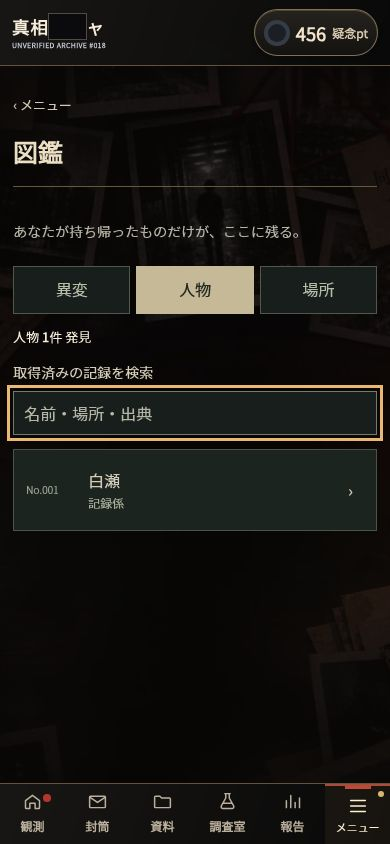
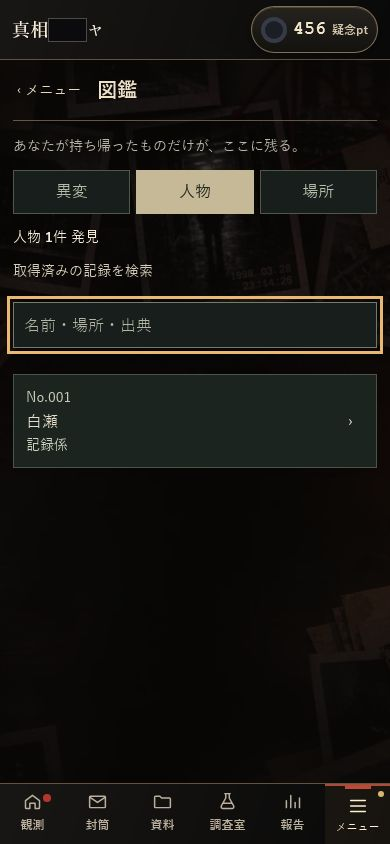
Make acquired catalog cards readable on phones (#248)

diff --git a/assets/account-catalog.css b/assets/account-catalog.css
@@ -8,10 +8,10 @@
 .menu-scene:has(.catalog){grid-template-columns:minmax(0,1fr)}
 .catalog-intro{font-size:14px;color:#b4b5a7;line-height:1.8}.catalog-tabs{display:grid;grid-template-columns:repeat(3,minmax(0,1fr));gap:6px;margin-top:22px}
 .catalog-tabs button{min-height:48px;background:#171e1b;border:1px solid #52574c;color:#b7bba9;font:inherit}.catalog-tabs button[aria-pressed=true]{background:#c6b998;color:#20271f;border-color:#c6b998}
-.catalog-summary{display:flex;justify-content:space-between;align-items:center;gap:10px;font-size:13px;margin:12px 0}.catalog-summary p{margin:0;white-space:nowrap}
+.catalog-summary{display:flex;flex-wrap:wrap;justify-content:space-between;align-items:center;gap:4px 10px;font-size:14px;line-height:1.5;margin:12px 0}.catalog-summary p{margin:0}
 .catalog-search{display:block;font-size:14px;color:#d3ccb8}.catalog-search-fields{display:flex;gap:8px;margin:7px 0 14px}.catalog-search-fields input{min-width:0;flex:1;min-height:44px;padding:9px 10px;border:1px solid #747b6d;background:#171e1b;color:#eee6d4;font:16px/1.5 var(--f-body)}.catalog-search-fields input::placeholder{color:#b4b5a7}.catalog-search-fields button{min-height:44px;min-width:64px;padding:8px;border:1px solid #747b6d;background:#1c241f;color:#d3ccb8;font:14px var(--f-body)}.catalog [hidden]{display:none}
-.catalog-list{display:grid;gap:8px}.catalog-entry{display:grid;grid-template-columns:52px minmax(0,1fr) 16px;gap:10px;align-items:center;width:100%;min-height:82px;padding:12px;text-align:left;border:1px solid #4c5349;background:#1c241f;color:#d3ccb8;font:inherit}.catalog-entry>small{font-size:10px;color:#949e8a}.catalog-entry b{display:block;font-size:16px;line-height:1.6;font-weight:500}.catalog-entry span small{display:block;font-size:12px;color:#a5af9b;line-height:1.6}.catalog-unknown{opacity:.58;background:#151a17}.catalog-detail{line-height:1.8}.catalog-detail h2{margin:8px 0}.catalog-detail h3{font-size:15px;margin-top:24px}.catalog-detail blockquote{margin:12px 0;padding:12px;border-left:2px solid #797e66;color:#bfc6b3}.catalog-detail .watch-speaker img{width:75px;height:100px;object-fit:cover}
-@media(max-width:360px){.account-card,.account-danger{padding:15px}.catalog-entry{padding:10px;grid-template-columns:44px minmax(0,1fr) 10px;gap:7px}.catalog-entry b{font-size:15px}}
+.catalog-list{display:grid;gap:8px}.catalog-entry{display:grid;grid-template-columns:minmax(0,1fr) 16px;gap:2px 8px;align-items:center;width:100%;min-height:92px;padding:12px;text-align:left;border:1px solid #4c5349;background:#1c241f;color:#e5dec9;font:inherit}.catalog-entry>small{grid-column:1;grid-row:1;font-size:14px;line-height:1.4;color:#c8cbb8}.catalog-entry>span:nth-of-type(1){grid-column:1;grid-row:2;min-width:0}.catalog-entry>span:last-child{grid-column:2;grid-row:1 / span 2}.catalog-entry b{display:block;font-size:16px;line-height:1.6;font-weight:500;overflow-wrap:anywhere}.catalog-entry span small{display:block;font-size:14px;color:#ccd2be;line-height:1.5;overflow-wrap:anywhere}.catalog-unknown{opacity:.58;background:#151a17}.catalog-detail{line-height:1.8}.catalog-detail h2{margin:8px 0}.catalog-detail h3{font-size:15px;margin-top:24px}.catalog-detail blockquote{margin:12px 0;padding:12px;border-left:2px solid #797e66;color:#bfc6b3}.catalog-detail .watch-speaker img{width:75px;height:100px;object-fit:cover}
+@media(max-width:360px){.account-card,.account-danger{padding:15px}.catalog-entry{padding:10px;grid-template-columns:minmax(0,1fr) 12px;gap:2px 6px}}
 
 
 /* Unregistered personnel: the missing portrait is intentional, not a broken image. */

diff --git a/docs/CURRENT-SPEC.md b/docs/CURRENT-SPEC.md
@@ -101,6 +101,8 @@
 | 調査室 | 強化・再調査 | 次の段階と費用、結果を読める導線 |
 | 報告・メニュー | 診断・実績・設定・保存・連絡 | 表示を切替、最小の見出しと明示的操作 |
 
+図鑑の取得済み一覧では記録番号・名称・出典を縦に並べ、件数と補助情報を14px以上で示す。狭幅や文字拡大でも名称を横方向へ切らず、カード全体を44px以上の操作面にする。検索・取得済みのみの表示・未発見の秘匿は従来どおり。
+
 本日の任務の進捗は、画面上の分数と横棒の読み上げ名・現在値・目標値を一致させる。古い保存値が範囲外でも表示は0〜目標に収め、横棒を枠外へ伸ばさない。保存値、達成判定、報酬の受取条件は変更しない。
 
 任務の個別報酬ボタンは静止表示とし、常時脈動しない。文字は14px以上、操作面は44px以上を保つ。一括受取と個別受取の処理、受取済み状態は従来どおり。

diff --git a/docs/EXPERIENCE-DESIGN.md b/docs/EXPERIENCE-DESIGN.md
@@ -52,6 +52,8 @@
 
 資料・人物・場所：既に手に入れたものだけ。名前だけ先出しの図鑑や進捗の総枠を作らない。獲得の喜びは「新しく説明できる矛盾が一つ増えた」で表現。
 
+取得済み図鑑のカードは番号・名称・出典を横に詰め込まず、同じ読み順で縦に見渡せるようにする。補助文字も手がかりとして読める大きさと明るさを保ち、狭い画面では行高を増やしてよい。
+
 課内会話：1人の肖像、誰が話しているか、質問、返答、別の話題。小さなテキスト行間を削って詰め込まない。三者照合は明示操作であり、会話を開いただけで報酬にしない。
 
 ## 4. ホラーの基本手法（再利用可）
